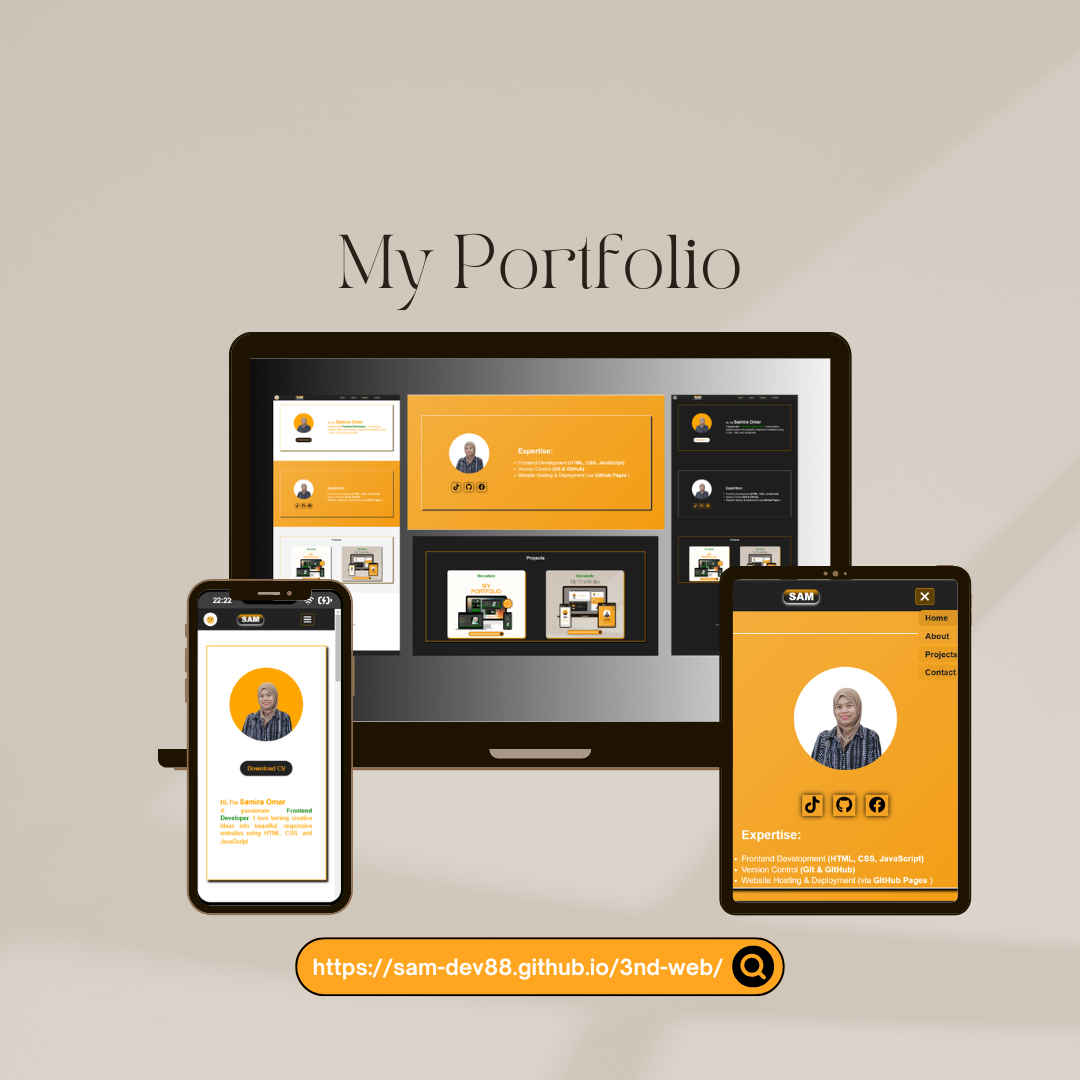
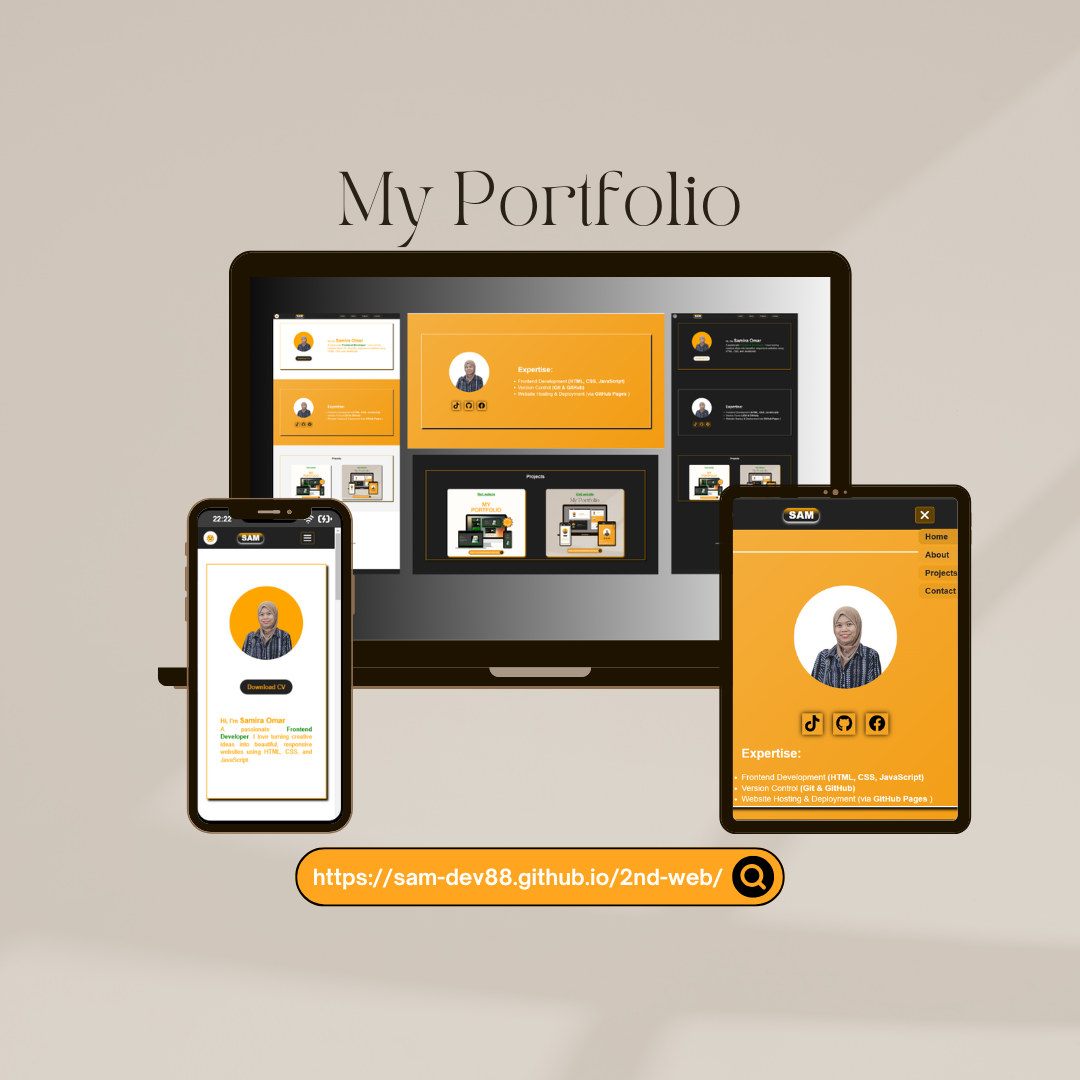
css

diff --git a/style.css b/style.css
@@ -419,33 +419,26 @@ article .expertise {
   background-color: #f4f4f4;
   text-align: center;
 }
-.project-box a,
-.project-box2 a {
-  font-size: clamp(12px, 1.2vw, 24px);
-  font-weight: bold;
-  text-align: center;
-  margin: 2% auto;
-  color: green;
+/* --- FIXED RESPONSIVE PROJECT SECTION --- */
+.project-container {
+  display: flex;
+  flex-wrap: wrap;
+  justify-content: center;
+  gap: 2rem;
+  width: 100%;
+  padding: 1rem;
+  height: auto; /* IMPORTANT FIX */
 }
-.project-box a:hover,
-.project-box2 a:hover {
-  color: #1e1e1e;
-}
-body.dark-mode #projects .project-box,body.dark-mode #projects .project-box2 {
-  box-shadow: 4px 5px 5px orange;
-}
+
 .project-box,
 .project-box2 {
-  display: flex;
+  width: clamp(250px, 45%, 400px); /* responsive width */
+  height: 350px; /* fixed height so design stays nice */
   background-size: cover;
   background-position: center;
-  padding: 10px;
-  box-shadow: 4px 5px 5px black;
   border-radius: 10px;
-  margin: 1rem;
-  width: 40%;
-  height: 60vh;
-  transition: transform 0.6s ease-in-out;
+  box-shadow: 4px 5px 5px black;
+  transition: transform 0.3s ease;
 }
 .project-box {
   background-image: url(photos/mock-up.png);
@@ -453,38 +446,32 @@ body.dark-mode #projects .project-box,body.dark-mode #projects .project-box2 {
 .project-box2 {
   background-image: url(photos/3rd-web-project.png);
 }
-.project-box:hover,.project-box2:hover {
-  transform: translateY(-10px);
+
+.project-box:hover,
+.project-box2:hover {
+  transform: translateY(-5px);
+}
+.project-box a,
+.project-box2 a {
+  color: green;
+  font-size: clamp(12px, 1vw, 24px);
+  font-weight: bold;
+}
+.project-box a:hover,
+.project-box2 a:hover {
+  color: black;
 }
 
-.project-container {
-  gap: 1rem;
-  padding: 0 4rem;
-  display: flex;
-  flex-wrap: wrap;
-  justify-content: center;
-}
-
-.view-btn {
-  width: 52%;
-  height: 4vh;
-  margin: 84% auto 0;
-  display: flex;
-  justify-content: center;
-  align-items: center;
-  padding: 0px 10px;
-  border-radius: 15px;
-  text-decoration: none;
-  font-weight: 600;
-  font-family: Arial, sans-serif;
-  border: 1px solid #333;
-  background: orange;
-  color: #fff;
-}
-.btn:hover {
-  opacity: 0.9;
-  transform: translateY(-1px);
-  transition: 0.15s;
+@media (max-width: 768px) {
+  .project-box,
+  .project-box2 {
+    width: 90%; /* full width on small screens */
+    height: 200px;
+  }
+  .project-box a,
+  .project-box2 a {
+    padding-left: 40%;
+  }
 }
 
 /* ---------- Contact Section ---------- */
@@ -539,10 +526,11 @@ footer {
   .project-box,
   .project-box2 {
     margin: 0 auto;
-    width: 90%;
+    width: 80%;
     height: 30vh;
   }
-  .project-box:hover,.project-box2:hover {
+  .project-box:hover,
+  .project-box2:hover {
     transform: translateY(-10px) scale(1.1);
   }
   .view-btn {
